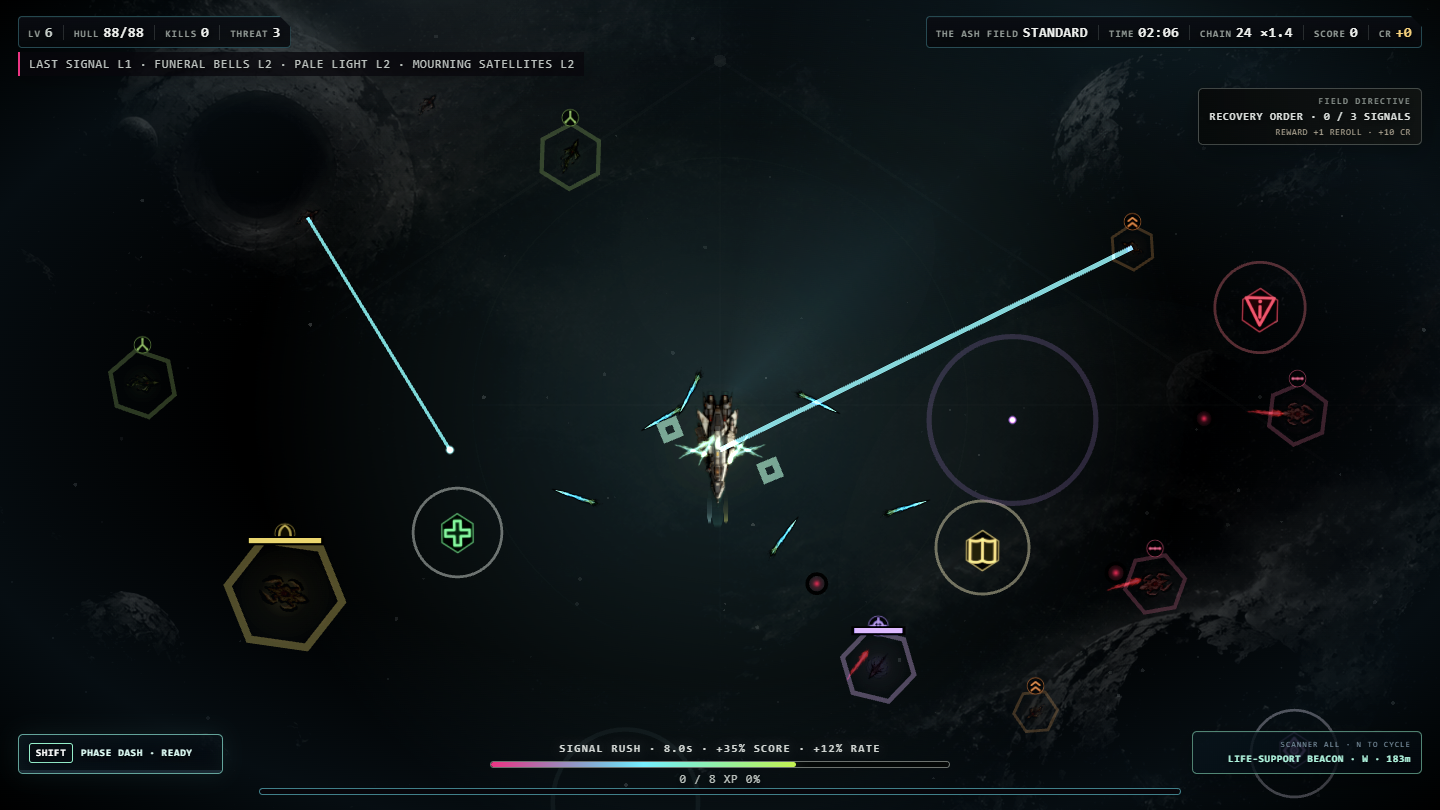
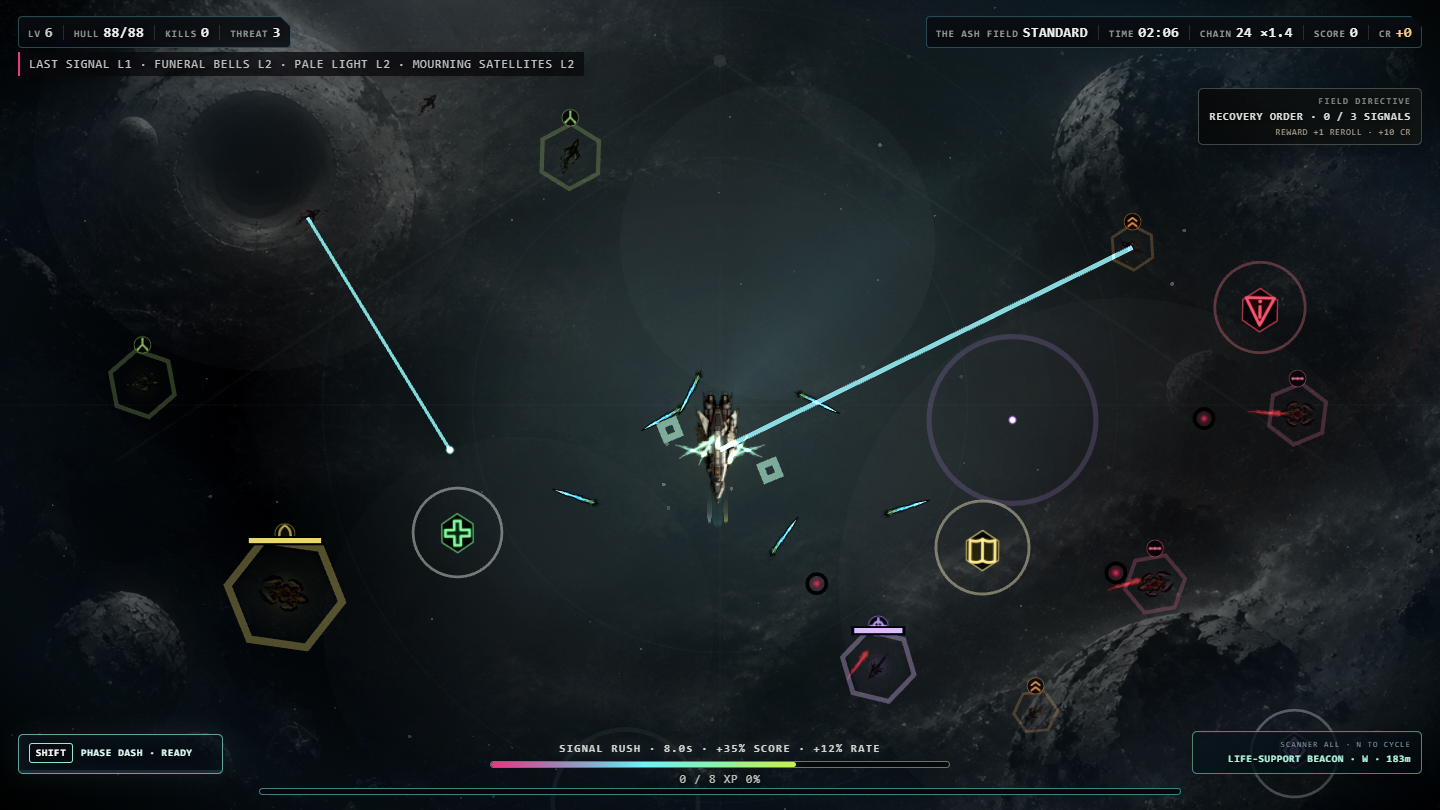
fix: improve upgrade scanning and field visibility

diff --git a/styles.css b/styles.css
@@ -7,7 +7,7 @@
 button{font:600 11px/1.1 var(--sans);text-transform:uppercase;letter-spacing:.085em;color:var(--text);background:linear-gradient(180deg,rgba(24,43,57,.94),rgba(7,17,27,.96));border:1px solid rgba(99,145,168,.48);border-radius:6px;padding:10px 12px;cursor:pointer;text-align:left;transition:border-color .16s,background .16s,transform .12s,box-shadow .16s;box-shadow:inset 0 1px rgba(255,255,255,.055),0 8px 20px rgba(0,0,0,.18)}
 button:hover:not(:disabled){border-color:#87d9f5;background:linear-gradient(180deg,rgba(34,66,85,.98),rgba(10,28,41,.98));box-shadow:inset 0 1px rgba(255,255,255,.08),0 0 24px rgba(93,215,255,.13)}button:active:not(:disabled){transform:translateY(1px);box-shadow:inset 0 2px 8px rgba(0,0,0,.35)}button:focus-visible{outline:1px solid var(--cyan);outline-offset:2px}button:disabled{opacity:.30;cursor:not-allowed}.primary{border-color:#71c5e3;background:linear-gradient(180deg,#1e536b,#0a2637);box-shadow:inset 0 1px rgba(255,255,255,.09),0 0 26px rgba(78,201,242,.10)}.danger{border-color:#864651;color:#ffc0c8}.selected{border-color:var(--cyan)!important;box-shadow:inset 0 0 0 1px rgba(134,231,255,.28),0 0 22px rgba(134,231,255,.12)}.hidden{display:none!important}
 #wrap{position:relative;width:min(100vw,177.777vh);aspect-ratio:16/9;background:radial-gradient(circle at 50% 40%,#121514,#020303 72%);overflow:hidden;box-shadow:0 0 80px #000}
-#wrap:after{content:"";pointer-events:none;position:absolute;inset:0;z-index:3;background:radial-gradient(ellipse at center,transparent 52%,rgba(0,0,0,.30) 100%)}
+#wrap:after{content:"";pointer-events:none;position:absolute;inset:0;z-index:3;background:radial-gradient(ellipse at center,transparent 62%,rgba(0,0,0,.18) 100%)}
 canvas{position:absolute;inset:0;width:100%!important;height:100%!important;display:block;image-rendering:auto;cursor:crosshair;touch-action:none}
 .threeGameCanvas{z-index:2;pointer-events:none;opacity:1}
 .overlay{position:absolute;inset:0;display:none;place-items:center;background:radial-gradient(ellipse at center,rgba(3,10,17,.20),rgba(0,3,8,.68) 76%,rgba(0,1,4,.88));backdrop-filter:blur(5px) saturate(1.08);padding:22px;z-index:10}.overlay.show{display:grid}
@@ -90,18 +90,18 @@ button:hover:not(:disabled){border-color:#aeb9b3;background:linear-gradient(180d
 .pauseSnapshot>div,.intelMetric,.intelSection{border-color:rgba(125,136,130,.34);background:rgba(10,13,12,.62)}
 .archivePanel blockquote:before{content:"//";left:-34px;top:-12px;font:600 28px var(--mono);letter-spacing:-.16em;color:rgba(234,215,167,.18)}
 #wrap canvas{filter:saturate(.78) contrast(1.08) brightness(1.025)}
-#game{filter:saturate(.48) contrast(1.10) brightness(.78)}#gameThree{filter:saturate(1.02) contrast(1.16) brightness(1.11)}
-#wrap[data-contrast="HIGH"] #game{filter:saturate(.52) contrast(1.17) brightness(.80)}#wrap[data-contrast="HIGH"] #gameThree{filter:saturate(1.10) contrast(1.21) brightness(1.14)}
+#game{filter:saturate(.62) contrast(1.07) brightness(.98)}#gameThree{filter:saturate(1.02) contrast(1.16) brightness(1.11)}
+#wrap[data-contrast="HIGH"] #game{filter:saturate(.68) contrast(1.10) brightness(1.03)}#wrap[data-contrast="HIGH"] #gameThree{filter:saturate(1.10) contrast(1.21) brightness(1.14)}
 
 /* 0.81 — fast upgrade comprehension and restrained installation feedback. */
 .buildCompass{display:flex;align-items:stretch;justify-content:space-between;gap:8px;margin:-3px 0 12px;padding:8px;border:1px solid rgba(145,156,150,.25);border-radius:6px;background:rgba(5,8,7,.52)}
 .buildCompass>span{min-width:0;display:grid;gap:2px;padding:2px 6px}.buildCompass i{font:700 calc(9px * var(--ui-scale))/1.2 var(--mono);font-style:normal;letter-spacing:.13em;color:#858f8a}.buildCompass b{font:600 calc(12px * var(--ui-scale))/1.25 var(--sans);letter-spacing:.055em;color:#eef0ed}.buildCompass em{font:400 calc(10px * var(--ui-scale))/1.3 var(--mono);font-style:normal;color:#9ea7a2}.buildCompass .buildSignal{text-align:right;border-left:1px solid rgba(145,156,150,.18);padding-left:16px}
-.choice{position:relative;overflow:hidden;min-height:174px;text-align:left;isolation:isolate;animation:choiceArrival .24s cubic-bezier(.2,.8,.25,1) both;animation-delay:calc(var(--choice-index,0) * 55ms);transition:transform .16s,border-color .18s,background .18s,box-shadow .18s}
+.choice{position:relative;overflow:hidden;min-height:146px;text-align:left;isolation:isolate;animation:choiceArrival .24s cubic-bezier(.2,.8,.25,1) both;animation-delay:calc(var(--choice-index,0) * 55ms);transition:transform .16s,border-color .18s,background .18s,box-shadow .18s}
 .choice:before{content:"";pointer-events:none;position:absolute;inset:0;z-index:-1;background:linear-gradient(110deg,transparent 5%,rgba(215,224,218,.055) 48%,transparent 70%);transform:translateX(-105%);transition:transform .36s ease}
 .choice:hover:not(:disabled),.choice:focus-visible{transform:translateY(-2px);border-color:rgba(192,202,196,.72);box-shadow:0 15px 34px rgba(0,0,0,.30),inset 0 1px rgba(255,255,255,.055)}.choice:hover:before,.choice:focus-visible:before{transform:translateX(75%)}
-.choiceTop{display:flex;align-items:center;justify-content:space-between;gap:10px;margin-bottom:9px}.choiceTop .kind{margin:0}.choiceTop .lvl{white-space:nowrap}.choice .name{display:block;margin-bottom:7px}.choice .desc{min-height:34px;margin-top:0}.choice .impact{display:block;margin-top:10px;font:700 calc(9px * var(--ui-scale))/1.3 var(--mono);letter-spacing:.09em;color:#c5ccc8}.choice .connection{display:block;margin-top:8px;padding-top:8px;border-top:1px solid rgba(155,166,160,.18);font:500 calc(9px * var(--ui-scale))/1.35 var(--mono);color:#a9b2ad}.choice.breakpoint{border-color:rgba(196,183,153,.62);background:linear-gradient(145deg,rgba(48,46,39,.88),rgba(13,15,14,.94))}.choice.breakpoint .connection{color:#d4c7aa}.choice.breakpoint .lvl{color:#d4c7aa}
+.choiceTop{display:flex;align-items:center;justify-content:space-between;gap:10px;margin-bottom:9px}.choiceTop .kind{margin:0}.choiceTop .lvl{white-space:nowrap}.choice .name{display:block;margin-bottom:7px}.choice .desc{min-height:20px;margin-top:0;font-weight:600;color:#c4cbc7}.choice .connection{display:block;margin-top:9px;padding-top:8px;border-top:1px solid rgba(155,166,160,.18);overflow:hidden;text-overflow:ellipsis;white-space:nowrap;font:600 calc(9px * var(--ui-scale))/1.35 var(--mono);letter-spacing:.035em;color:#a9b2ad}.choice.breakpoint{border-color:rgba(196,183,153,.62);background:linear-gradient(145deg,rgba(48,46,39,.88),rgba(13,15,14,.94))}.choice.breakpoint .connection{color:#d4c7aa}.choice.breakpoint .lvl{color:#d4c7aa}
 @keyframes choiceArrival{from{opacity:0;transform:translateY(8px) scale(.985)}to{opacity:1;transform:translateY(0) scale(1)}}
-@media(max-width:780px){.buildCompass{display:block}.buildCompass .buildSignal{display:none}.choice{min-height:142px}.choice .desc{min-height:0}}
+@media(max-width:780px){.buildCompass{display:block}.buildCompass .buildSignal{display:none}.choice{min-height:124px}.choice .desc{min-height:0}}
 
 /* 0.82 — low-noise anticipation and off-screen priority guidance. */
 #prioritySignal{position:absolute;left:18px;top:88px;display:flex;align-items:center;gap:9px;max-width:360px;padding:7px 10px;border:1px solid rgba(190,199,194,.34);border-radius:5px;background:linear-gradient(90deg,rgba(7,9,9,.92),rgba(16,18,17,.78));box-shadow:0 9px 28px rgba(0,0,0,.32);color:#d8dedb}#prioritySignal i{display:grid;place-items:center;width:19px;height:19px;font:700 13px var(--mono);font-style:normal;color:#d3aaa4;transition:transform .12s linear}#prioritySignal span{min-width:0}#prioritySignal small{display:block;font:700 calc(8px * var(--ui-scale))/1.2 var(--mono);letter-spacing:.13em;color:#7f8984}#prioritySignal b{display:block;margin-top:3px;overflow:hidden;text-overflow:ellipsis;white-space:nowrap;font:600 calc(10px * var(--ui-scale))/1.25 var(--mono);letter-spacing:.055em;color:#e1e5e2}#prioritySignal[data-tone="bounty"]{border-color:rgba(208,189,143,.48)}#prioritySignal[data-tone="bounty"] i{color:#d8c391}#prioritySignal[data-tone="nemesis"] i{color:#e8e8e4}

diff --git a/tests/smoke.js b/tests/smoke.js
@@ -93,7 +93,8 @@ vm.runInContext(`
   if(!renderRunIntel()||!document.getElementById('loadoutContent').innerHTML.includes('LAST SIGNAL')||!document.getElementById('loadoutContent').innerHTML.includes('CALIBRATION TEST')||!document.getElementById('loadoutContent').innerHTML.includes('INSTALL LOG')) throw new Error('run intel did not render the active build and install history');
   state.choosing=true;state.choiceMode='level';renderOffers();
   if(!document.getElementById('buildCompass').innerHTML.includes('NEAREST BREAKPOINT')) throw new Error('build compass did not expose the nearest evolution');
-  if(!document.getElementById('choices').children.some(card=>card.innerHTML.includes('IMPACT ·')&&card.innerHTML.includes('EVOLUTION ·'))) throw new Error('upgrade cards did not expose scoped impact and one build connection');
+  const upgradeCards=document.getElementById('choices').children;if(upgradeCards.some(card=>card.innerHTML.includes('class="impact"')||((card.innerHTML.match(/class="desc">([^<]*)/)||[])[1]||'').length>72)) throw new Error('upgrade cards did not keep visible copy concise');
+  if(!upgradeCards.some(card=>card.title.includes('IMPACT ·')&&card.title.includes('EVOLUTION ·'))) throw new Error('upgrade cards did not preserve full scoped impact and build connection details');
   const pinnedOffer=state.currentOffers[0];if(!togglePinnedOffer(pinnedOffer.key)||state.pinnedOfferKey!==pinnedOffer.key) throw new Error('upgrade pin control failed');
   const previousDraw=state.currentOffers.map(offer=>offer.key),previousUnpinned=previousDraw.filter(key=>key!==pinnedOffer.key).sort().join('|'),originalRandom=Math.random;Math.random=()=>0;renderOffers(previousDraw,pinnedOffer);Math.random=originalRandom;
   if(!state.currentOffers.some(offer=>offer.key===pinnedOffer.key)||!document.getElementById('offerPins').children.some(button=>button.className.includes('selected'))) throw new Error('pinned offer did not survive reroll');

diff --git a/index.html b/index.html
@@ -250,7 +250,7 @@
         <div class="settingRow"><div><b>GRAPHICS PRESET</b><div class="tiny">Geometry detail and space-fog density.</div></div><button id="graphicsSetting"></button></div>
         <div class="settingRow"><div><b>EFFECT CLARITY</b><div class="tiny">HIGH adds hostile-fire outlines, role glyphs and threat-color separation.</div></div><button id="effectClaritySetting"></button></div>
         <div class="settingRow"><div><b>GLOW FX</b><div class="tiny">Additive weapon, ship and hostile lighting.</div></div><button id="glowSetting"></button></div>
-        <div class="settingRow"><div><b>DEAD UNIVERSE</b><div class="tiny">FULL enables the animated ash fields; SIMPLE and OFF prioritize clarity.</div></div><button id="backgroundSetting"></button></div>
+        <div class="settingRow"><div><b>DEAD UNIVERSE</b><div class="tiny">FULL keeps animated ash fields and visible midtones; SIMPLE and OFF reduce detail.</div></div><button id="backgroundSetting"></button></div>
         <div class="settingRow"><div><b>CONTRAST</b><div class="tiny">HIGH improves HUD and object separation.</div></div><button id="contrastSetting"></button></div>
         <div class="settingRow"><div><b>AUDIO</b><div class="tiny">Desktop music, engine ambience, weapons and impact samples.</div></div><button id="audioSetting"></button></div>
         <div class="settingRow"><div><b>DYNAMIC RANGE</b><div class="tiny">CINEMA is widest · NIGHT keeps impacts controlled and dialogue-like cues clear.</div></div><button id="audioMixSetting"></button></div>

diff --git a/README.md b/README.md
@@ -45,6 +45,7 @@ The supported runtime is the top-down game loaded by `index.html`. Three.js is t
 - an off-screen priority compass for bosses, Echo Hunters, and timed signal targets
 - level-end pickup convergence, boss-clear salvage sweeps, and correctly queued multi-level rewards
 - rerolls protected against returning an identical draw, with one upgrade card optionally pinned through the reroll
+- concise level-up cards showing one immediate effect and one relevant build link, with full mechanical detail retained in tooltips and accessible labels
 - selectable automatic targeting priorities for nearest, damaged, or elite hostiles
 - a low-noise combat tracker for the build's nearest weapon evolution
 - an in-run signal scanner that filters procedural discoveries by support, archive, or risk category
@@ -79,6 +80,7 @@ The renderer includes:
 - class-tuned organic locomotion with lateral sway, speed stretch, weapon recoil, turning compression, and short motion wakes instead of static sprites translated across the arena
 - dark separation rings around hostile projectiles and thicker priority health bars for reliable reads against bright weapons and animated backgrounds
 - separate environment and combat color grades: the world remains desaturated and oppressive while combat silhouettes retain restrained corpse-green, rust, arterial-red, and cold-blue identities
+- readable environmental midtones, brighter star structure, and a softer outer vignette keep the dead universe visible without competing with hostiles or projectiles
 - enlarged dark backplates behind hostile organisms and friendly projectiles, preserving the crowded-survival readability of the combat field without changing collision geometry
 - organic breathing, undulation, and asymmetric locomotion for alien bodies instead of spacecraft engine plumes
 - directional weapon recoil, generated transparent muzzle plates, per-weapon projectile silhouettes, hostile firing flashes, beam lines, turning response, and dash afterimages

diff --git a/CHANGELOG.md b/CHANGELOG.md
@@ -2,6 +2,8 @@
 
 ## Unreleased — Display Clarity and Motion Correction
 
+- shortened level-up and doctrine cards to one mechanical effect plus one compact build link, while retaining full details in native tooltips and accessibility labels
+- lifted environmental midtones, star visibility, ash-field separation, and navigation guides while reducing the stacked dark filter and outer vignette
 - rebuilt the launch hangar around three primary decisions, one deployment action, compact frame comparisons, and an optional collapsed progression summary
 - replaced text-heavy configuration cards with labeled semantic SVG icons, persistent accessible descriptions, and native hover tooltips
 - introduced a neon-noir interface palette using cyan, magenta, acid green, violet, and amber as functional signals over damaged near-black surfaces
